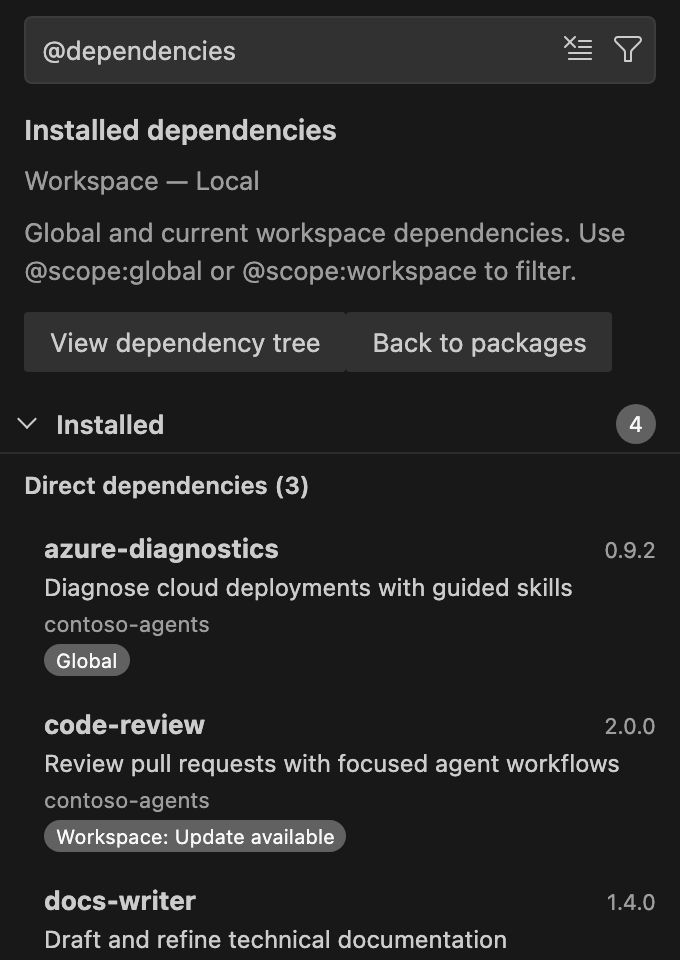
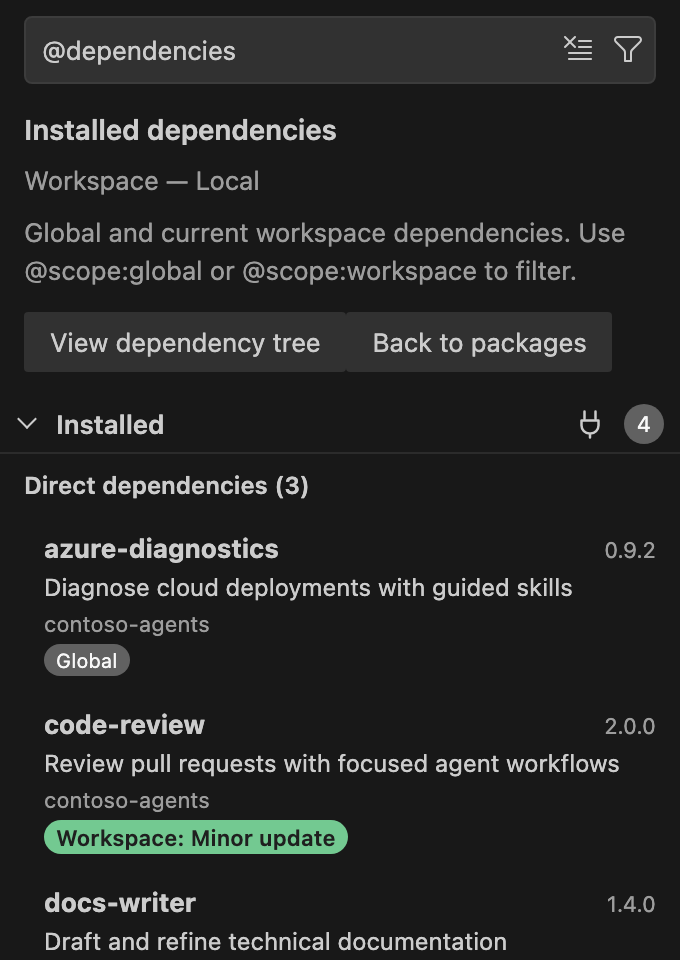
Release 0.9.0 with direct plugin install actions

diff --git a/src/webview/main.ts b/src/webview/main.ts
@@ -42,6 +42,7 @@ const send = (message: Message) => api.postMessage(message);
 function save() { api.setState({ search, limit: limits, collapsed, sizes, gallerySection, dependencyView, dependencyScope }); }
 const codicons = {
   cloudDownload: '<svg aria-hidden="true" width="16" height="16" viewBox="0 0 16 16" xmlns="http://www.w3.org/2000/svg" fill="none"><path d="M5.5 10.5H4.25a2.75 2.75 0 0 1-.18-5.49A4.25 4.25 0 0 1 12.5 4.5a2.75 2.75 0 0 1 0 5.5H10.5" stroke="currentColor" stroke-linecap="round" stroke-linejoin="round" stroke-width="1.5"/><path d="M8 6.25v6m0 0-2.25-2.25M8 12.25l2.25-2.25M5.75 14.25h4.5" stroke="currentColor" stroke-linecap="round" stroke-linejoin="round" stroke-width="1.5"/></svg>',
+  plug: '<svg aria-hidden="true" width="16" height="16" viewBox="0 0 16 16" xmlns="http://www.w3.org/2000/svg" fill="none"><path d="M5.25 1.75v3.5M10.75 1.75v3.5M3.75 6.25h8.5v2.5a4 4 0 0 1-4 4H7.75a4 4 0 0 1-4-4V6.25ZM8 12.75v2" stroke="currentColor" stroke-linecap="round" stroke-linejoin="round" stroke-width="1.25"/></svg>',
   clearAll: '<svg aria-hidden="true" width="16" height="16" viewBox="0 0 16 16" xmlns="http://www.w3.org/2000/svg" fill="currentColor"><path d="M13.5004 12.0004C13.7762 12.0006 14.0004 12.2245 14.0004 12.5004C14.0002 12.7761 13.7761 13.0002 13.5004 13.0004H2.50037C2.22449 13.0004 2.00056 12.7762 2.00037 12.5004C2.00037 12.2244 2.22437 12.0004 2.50037 12.0004H13.5004Z"/><path d="M13.5004 9.00037C13.7762 9.00056 14.0004 9.22449 14.0004 9.50037C14.0002 9.77608 13.7761 10.0002 13.5004 10.0004H2.50037C2.22449 10.0004 2.00056 9.7762 2.00037 9.50037C2.00037 9.22437 2.22437 9.00037 2.50037 9.00037H13.5004Z"/><path d="M13.5004 6.00037C13.7762 6.00056 14.0004 6.22449 14.0004 6.50037C14.0002 6.77608 13.7761 7.00017 13.5004 7.00037H7.50037C7.22449 7.00037 7.00056 6.7762 7.00037 6.50037C7.00037 6.22437 7.22437 6.00037 7.50037 6.00037H13.5004Z"/><path d="M5.50037 0.999023C5.63295 0.999115 5.76009 1.05179 5.85388 1.14551C5.94777 1.23939 6.00037 1.36722 6.00037 1.5C6.00027 1.63265 5.94769 1.75971 5.85388 1.85352L3.7074 4L5.85388 6.14551C5.94777 6.23939 6.00037 6.36722 6.00037 6.5C6.00027 6.63265 5.94769 6.75971 5.85388 6.85352C5.76008 6.94732 5.63302 6.99991 5.50037 7C5.36759 7 5.23976 6.9474 5.14587 6.85352L3.00037 4.70703L0.853882 6.85352C0.760077 6.94732 0.633017 6.99991 0.500366 7C0.36759 7 0.239761 6.9474 0.145874 6.85352C0.0521583 6.75972 -0.000519052 6.63258 -0.000610352 6.5C-0.000610354 6.36722 0.0519875 6.23939 0.145874 6.14551L2.29333 4L0.145874 1.85352C0.0521583 1.75972 -0.000519119 1.63258 -0.000610352 1.5C-0.000610351 1.36722 0.0519874 1.23939 0.145874 1.14551C0.239761 1.05162 0.36759 0.999023 0.500366 0.999023C0.63295 0.999115 0.76009 1.05179 0.853882 1.14551L3.00037 3.29297L5.14587 1.14551C5.23976 1.05162 5.36759 0.999023 5.50037 0.999023Z"/><path d="M13.5004 3.00037C13.7762 3.00056 14.0004 3.22449 14.0004 3.50037C14.0002 3.77608 13.7761 4.00017 13.5004 4.00037H7.50037C7.22449 4.00037 7.00056 3.7762 7.00037 3.50037C7.00037 3.22437 7.22437 3.00037 7.50037 3.00037H13.5004Z"/></svg>',
   filter: '<svg aria-hidden="true" width="16" height="16" viewBox="0 0 16 16" xmlns="http://www.w3.org/2000/svg" fill="currentColor"><path d="M9.5 14H6.5C6.224 14 6 13.776 6 13.5V9.329C6 8.928 5.844 8.552 5.561 8.268L1.561 4.268C1.205 3.911 1 3.418 1 2.914C1 1.858 1.858 1 2.914 1H13.086C14.142 1 15 1.858 15 2.914C15 3.417 14.796 3.911 14.439 4.267L10.439 8.267C10.156 8.551 10 8.927 10 9.328V13.499C10 13.775 9.776 13.999 9.5 13.999V14ZM7 13H9V9.329C9 8.661 9.26 8.033 9.732 7.561L13.732 3.561C13.902 3.391 14 3.155 14 2.915C14 2.411 13.59 2.001 13.086 2.001H2.914C2.41 2.001 2 2.411 2 2.915C2 3.155 2.098 3.391 2.268 3.562L6.268 7.562C6.741 8.034 7 8.662 7 9.33V13.001V13Z"/></svg>',
   back: '<svg aria-hidden="true" width="16" height="16" viewBox="0 0 16 16" xmlns="http://www.w3.org/2000/svg" fill="currentColor"><path d="M13.5 7.5H3.707l4.147-4.146a.5.5 0 1 0-.708-.708l-5 5a.5.5 0 0 0 0 .708l5 5a.5.5 0 0 0 .708-.708L3.707 8.5H13.5a.5.5 0 0 0 0-1Z"/></svg>',
@@ -265,6 +266,15 @@ function renderBrowserContents() {
       attachTooltip(updateAll, 'Update All');
       updateAll.disabled = count === 0 || state.busy || state.actionResult?.status === 'running' || !state.trusted || !state.version;
       headingRow.append(updateAll, countBadge);
+    } else if (section === 'installed') {
+      countBadge.id = 'section-count-installed';
+      heading.setAttribute('aria-label', `${name}, ${count} installed`);
+      headingRow.append(heading);
+      const install = iconButton('Install plugin', 'plug', () => send({ type: 'install' }), 'install-plugin-button');
+      install.id = 'install-plugin';
+      attachTooltip(install, 'Install plugin');
+      install.disabled = state.busy || state.actionResult?.status === 'running' || !state.trusted || !state.version;
+      headingRow.append(install, countBadge);
     } else {
       heading.append(countBadge);
       headingRow.append(heading);
@@ -522,9 +532,17 @@ function renderGalleryList(content: HTMLElement, section: GallerySection) {
   const head = el('header', 'gallery-header');
   const titles = el('div', 'gallery-titles');
   titles.append(el('h1', '', title), el('p', 'muted', subtitle));
+  head.append(titles);
+  if (section === 'installed') {
+    const install = iconButton('Install plugin', 'plug', () => send({ type: 'install' }));
+    install.id = 'gallery-install-plugin';
+    attachTooltip(install, 'Install plugin');
+    install.disabled = state.busy || state.actionResult?.status === 'running' || !state.trusted || !state.version;
+    head.append(install);
+  }
   const refresh = iconButton('Refresh packages', 'refresh', () => send({ type: 'refresh' }));
   refresh.id = 'gallery-refresh'; refresh.disabled = state.busy;
-  head.append(titles, refresh);
+  head.append(refresh);
   const controls = el('div', 'gallery-controls');
   controls.append(searchBar(false));
   if (state.busy) {

diff --git a/src/extension.ts b/src/extension.ts
@@ -1157,7 +1157,7 @@ class ApmExtension implements vscode.Disposable {
     const scope = await this.installScope(capturedScope);
     if (!scope) return;
     const choices = [
-      { label: '$(edit) Enter package source...', description: 'Repository or marketplace package', item: undefined as PackageItem | undefined },
+      { label: '$(edit) Enter plugin or package source...', description: 'Repository or direct source', item: undefined as PackageItem | undefined },
       ...this.state.catalog.map(item => ({ label: item.name, description: item.marketplace ?? item.source, detail: item.description, item }))
     ];
     const picked = await vscode.window.showQuickPick(choices, { title: preview ? 'Preview package installation' : 'Install APM package',
@@ -1165,7 +1165,8 @@ class ApmExtension implements vscode.Disposable {
     if (!picked) return;
     let item = picked.item;
     if (!item) {
-      const source = await vscode.window.showInputBox({ title: 'Install APM package', prompt: 'Package source, for example owner/repository or package@marketplace',
+      const source = await vscode.window.showInputBox({ title: 'Install APM package',
+        prompt: 'Plugin or package source, for example owner/repository or package@marketplace',
         validateInput: value => !value.trim() || value.startsWith('-') || /[\s\0]/.test(value) || containsUrlCredentials(value)
           ? 'Enter a package source without whitespace, leading flags, or credentials.' : undefined });
       if (source === undefined) return;
@@ -1828,7 +1829,13 @@ class ApmExtension implements vscode.Disposable {
             context.extra.actionResult.summary = 'Files changed or a newer audit started during this scan. Run the audit again.';
           }
         }
-        if (result.exitCode !== 0 && !context.extra.actionResult.audit) context.extra.error = redact(result.stderr || `APM exited with code ${result.exitCode}. Review the output.`);
+        if (result.exitCode !== 0 && !context.extra.actionResult.audit) {
+          const subpathRejected = id === 'install' && /a subpath cannot be embedded in a git URL/i.test(output);
+          context.extra.error = subpathRejected
+            ? 'APM rejected the source: a subpath cannot be embedded in a Git URL. Declare the repository URL with git:, the skill folder with path:, and the branch or tag with ref: in apm.yml. Alternatively, use APM-supported host-qualified shorthand. Review APM Output for the original diagnostic and examples.'
+            : redact(result.stderr || `APM exited with code ${result.exitCode}. Review the output.`);
+          if (subpathRejected) context.extra.actionResult.summary = context.extra.error;
+        }
       } catch (error) {
         if (error instanceof RepositoryAccessError) context.authenticationRepository = error.repository;
         context.extra.actionResult = { action, title, command, status: controller.signal.aborted ? 'cancelled' : 'failed',

diff --git a/test/webview/ui.test.ts b/test/webview/ui.test.ts
@@ -309,6 +309,29 @@ test('hidden sections remove their headers and sashes but preserve fixed search'
     assert.deepEqual([...page.document.querySelectorAll('.count-badge')].map(node => node.textContent), ['2', '1', '1']);
   } finally { page.dom.window.close(); }
 });
+test('installed section exposes Install plugin beside its collapsible heading', () => {
+  const page = browser('installed');
+  try {
+    const headingRow = page.document.querySelector('#section-heading-installed')?.parentElement;
+    const install = page.document.querySelector<HTMLButtonElement>('#install-plugin');
+    const count = headingRow?.lastElementChild;
+    assert.ok(headingRow?.classList.contains('section-heading-row'));
+    assert.equal(headingRow?.children[1], install);
+    assert.equal(count?.classList.contains('count-badge'), true);
+    assert.equal(install?.textContent, '');
+    assert.equal(install?.title, 'Install plugin');
+    assert.equal(install?.getAttribute('aria-label'), 'Install plugin');
+    assert.ok(install?.querySelector('svg'));
+    assert.equal(install?.disabled, false);
+    install!.click();
+    assert.equal(JSON.stringify(page.messages.at(-1)), '{"type":"install"}');
+
+    page.state.busy = true;
+    page.update();
+    assert.equal(page.document.querySelector<HTMLButtonElement>('#install-plugin')?.disabled, true);
+  } finally { page.dom.window.close(); }
+});
+
 test('updates section exposes Update All beside its collapsible heading', () => {
   const page = browser('updates');
   try {
@@ -1001,6 +1024,11 @@ test('package browser groups cards by marketplace, filters in place and opens de
 
     page.document.querySelector<HTMLButtonElement>('#gallery-nav-installed')!.click();
     assert.equal(page.document.querySelector('.gallery-header h1')!.textContent, 'Installed packages');
+    const galleryInstall = page.document.querySelector<HTMLButtonElement>('#gallery-install-plugin');
+    assert.equal(galleryInstall?.title, 'Install plugin');
+    assert.ok(galleryInstall?.querySelector('svg'));
+    galleryInstall!.click();
+    assert.equal(JSON.stringify(page.messages.at(-1)), '{"type":"install"}');
     assert.deepEqual([...page.document.querySelectorAll('.gallery-group-heading > span:first-child')].map(node => node.textContent), ['one', 'Other sources']);
     assert.match(page.document.querySelector('.gallery-group:last-of-type .package-card')!.textContent!, /tool.*3\.0\.0.*Direct install.*Global/);
     page.document.querySelector<HTMLButtonElement>('#gallery-nav-catalog')!.click();

diff --git a/test/apm/taskRouting.test.ts b/test/apm/taskRouting.test.ts
@@ -1364,6 +1364,36 @@ test('native install gathers package source and leaves manifest targets unchange
   assert.equal(script.executions.length, 0);
 });
 
+test('installation explains CLI-rejected Git subpaths from stdout or stderr without prevalidating hosts', async () => {
+  for (const preview of [false, true]) for (const stream of ['stdout', 'stderr'] as const) {
+    const source = 'https://gitlab.example.com/group/repo/-/tree/main/skills/example';
+    const diagnostic = 'A subpath cannot be embedded in a git URL. Use the path: key instead.';
+    const host = harness({ picks: [0, 0], inputs: [source], output: () => ({
+      stdout: '', stderr: '', [stream]: diagnostic, exitCode: 1
+    }) });
+    await host.extension.installPackage(undefined, preview);
+    assert.equal(host.errors.length, 1);
+    assert.match(host.errors[0], /APM rejected the source.*subpath cannot be embedded/);
+    assert.match(host.errors[0], /git:.*path:.*ref:/);
+    assert.ok(host.errorActions[0].includes('Show APM Output'));
+    assert.deepEqual(Array.from(host.argv[0]), preview
+      ? ['install', '--dry-run', '--global', source] : ['install', '--global', source]);
+    assert.equal(host.argv.length, 1);
+    assert.ok(host.messages.some(message => message.actionResult?.output?.includes(diagnostic)));
+    assert.equal(host.notices.length, 0);
+  }
+});
+
+test('direct installation leaves source format support to APM', async () => {
+  for (const source of ['https://github.com/owner/repo.git#main', 'https://gitlab.com/group/subgroup/repo.git',
+    'https://github.com/figma/mcp-server-guide/tree/main/skills/figma-use']) {
+    const host = harness({ picks: [0, 0], inputs: [source] });
+    await host.extension.installPackage();
+    assert.equal(host.errors.length, 0);
+    assert.deepEqual(Array.from(host.argv[0]), ['install', '--global', source]);
+  }
+});
+
 test('native audit opens a readable report and Problems even when findings cause a nonzero exit', async () => {
   const host = harness({ output: () => ({ stdout: JSON.stringify({ passed: false, summary: { files_scanned: 2, critical: 1 },
     findings: [{ severity: 'critical', file: 'source.md', line: 3, message: 'Hidden character', remediation: 'Review source.' }] }), stderr: '', exitCode: 1 }) });

diff --git a/docs/managing-packages.md b/docs/managing-packages.md
@@ -18,16 +18,19 @@ A package installed in both scopes appears as two separate entries, each with it
 | Where | What to do |
 | --- | --- |
 | Package page | Select a catalog package, then choose **Install**. |
-| APM view | Choose **Install a package** when **Installed** is empty. |
+| APM view | Select **Install plugin** in the **Installed** header, or choose **Install a package** when the list is empty. |
+| Package browser window | Select **Install plugin** on the **Installed** page. |
 | Command Palette | Run **APM: Install Package**. |
 
 **APM: Install Package** asks for:
 
 1. The destination.
-2. A catalog package, or **Enter package source...** to type a source such as `owner/repository` or `package@marketplace`.
+2. A catalog package, or **Enter plugin or package source...** to type a source such as `owner/repository` or `package@marketplace`.
 3. Confirmation.
 
 When installation finishes, choose **Open Package** in the notification to open the package page.
+
+APM validates source formats, including repositories hosted outside GitHub. If it rejects a Git URL with an embedded subpath, the notification explains how to declare `git:`, `path:`, and `ref:` separately in `apm.yml`, or use APM-supported host-qualified shorthand. **Show APM Output** preserves the CLI's original diagnostic and examples. The extension does not guess the branch or rewrite your source.
 
 To install a package that is already installed in one scope into another, choose **Install in…** on its page. Select a **Workspace** or **Global** installation badge to switch between existing installations; hover over a badge to see its installed version.
 

diff --git a/docs/commands.md b/docs/commands.md
@@ -49,11 +49,11 @@ Every extension command starts with **APM:** in the Command Palette (**View** > 
 | **APM: Check Marketplace Health** | Run marketplace checks, outdated reports, validation, or audits. See [Check marketplace health](marketplaces.md#check-marketplace-health). | More APM Actions | Trusted, folder |
 | **APM: Discover MCP Servers** | List, search, or show servers in the MCP registry. See [MCP servers](mcp-servers.md). | More APM Actions | Trusted |
 | **APM: Install MCP Server** | Install an MCP server by registry name. | More APM Actions | Trusted |
-| **APM: More APM Actions** | Open the More APM Actions picker. | The APM view's **...** menu | Trusted |
+| **More APM Action...** | Open the More APM Actions picker. | The APM view's **...** menu | Trusted |
 
 ## More APM Actions
 
-**More APM Actions** groups the less frequent workflows in one searchable picker. Open it from the **...** menu at the top right of the APM view, or run **APM: More APM Actions**. It contains:
+**More APM Actions** groups the less frequent workflows in one searchable picker. Open it from the **...** menu at the top right of the APM view, or run **More APM Action...**. It contains:
 
 - **Dependency Reports**, **View Dependency Tree**, **Explain Dependency**, and **Find File Owner**.
 - **Review Executable Trust**, **Manage Executable Trust**, and **Explain Package Policy**.

diff --git a/docs/user-guide.md b/docs/user-guide.md
@@ -13,7 +13,7 @@ Most operations have more than one entry point. Use whichever fits your workflow
 | Entry point | Use it for |
 | --- | --- |
 | **APM view** | Select the **APM** icon in the Activity Bar to browse packages, filter them, and open package pages with install, preview, update, uninstall, and audit actions. |
-| **View toolbar** | **Refresh**, **Open Package Browser** for a large browsing window, and the **...** menu with **Views**, **Settings**, and **APM: More APM Actions**. |
+| **View toolbar** | **Refresh**, **Open Package Browser** for a large browsing window, and the **...** menu with **Views**, **Settings**, and **More APM Action...**. |
 | **Command Palette** | Run any **APM:** command, such as **APM: Install Package** or **APM: Compile**. See [Commands](commands.md). |
 | **More APM Actions** | A searchable picker of dependency, trust, marketplace, MCP, and lifecycle workflows, in the view's **...** menu. |
 | **Context menus and editor title** | Right-click a folder, `apm.yml`, or any file in the Explorer or editor, or use the buttons above an open `apm.yml`. |

diff --git a/docs/package-browser.md b/docs/package-browser.md
@@ -22,7 +22,7 @@ The top-right toolbar of the view has:
 - The **...** menu:
   - **Views**: show or hide **Catalog**, **Installed**, and **Updates**. Visibility is saved per workspace and is independent of search filters.
   - **Settings**: open the extension's settings in the Settings editor. See [Settings](settings.md).
-  - **APM: More APM Actions**: open the **More APM Actions** picker of dependency, trust, marketplace, MCP, and lifecycle workflows. It appears only in trusted workspaces. See [Commands](commands.md#more-apm-actions).
+  - **More APM Action...**: open the **More APM Actions** picker of dependency, trust, marketplace, MCP, and lifecycle workflows. It appears only in trusted workspaces. See [Commands](commands.md#more-apm-actions).
 
 **Refresh** and **Settings** are available only from this toolbar, not from the Command Palette.
 

diff --git a/CHANGELOG.md b/CHANGELOG.md
@@ -1,5 +1,13 @@
 # Changelog
 
+## 0.9.0
+
+- Add an **Install plugin** button with a hollow plug icon to the Installed section and package browser page, including direct-source installation.
+- Show cached catalogs and individual package refresh results progressively while preserving search focus.
+- Explain Git subpath errors reported by APM without restricting accepted source formats in the extension.
+- Rename **APM: More APM Actions** to **More APM Action...**.
+- Exclude local analysis caches from extension packages.
+
 ## 0.8.0
 
 - Update development dependencies, including VS Code and Node.js type definitions.
